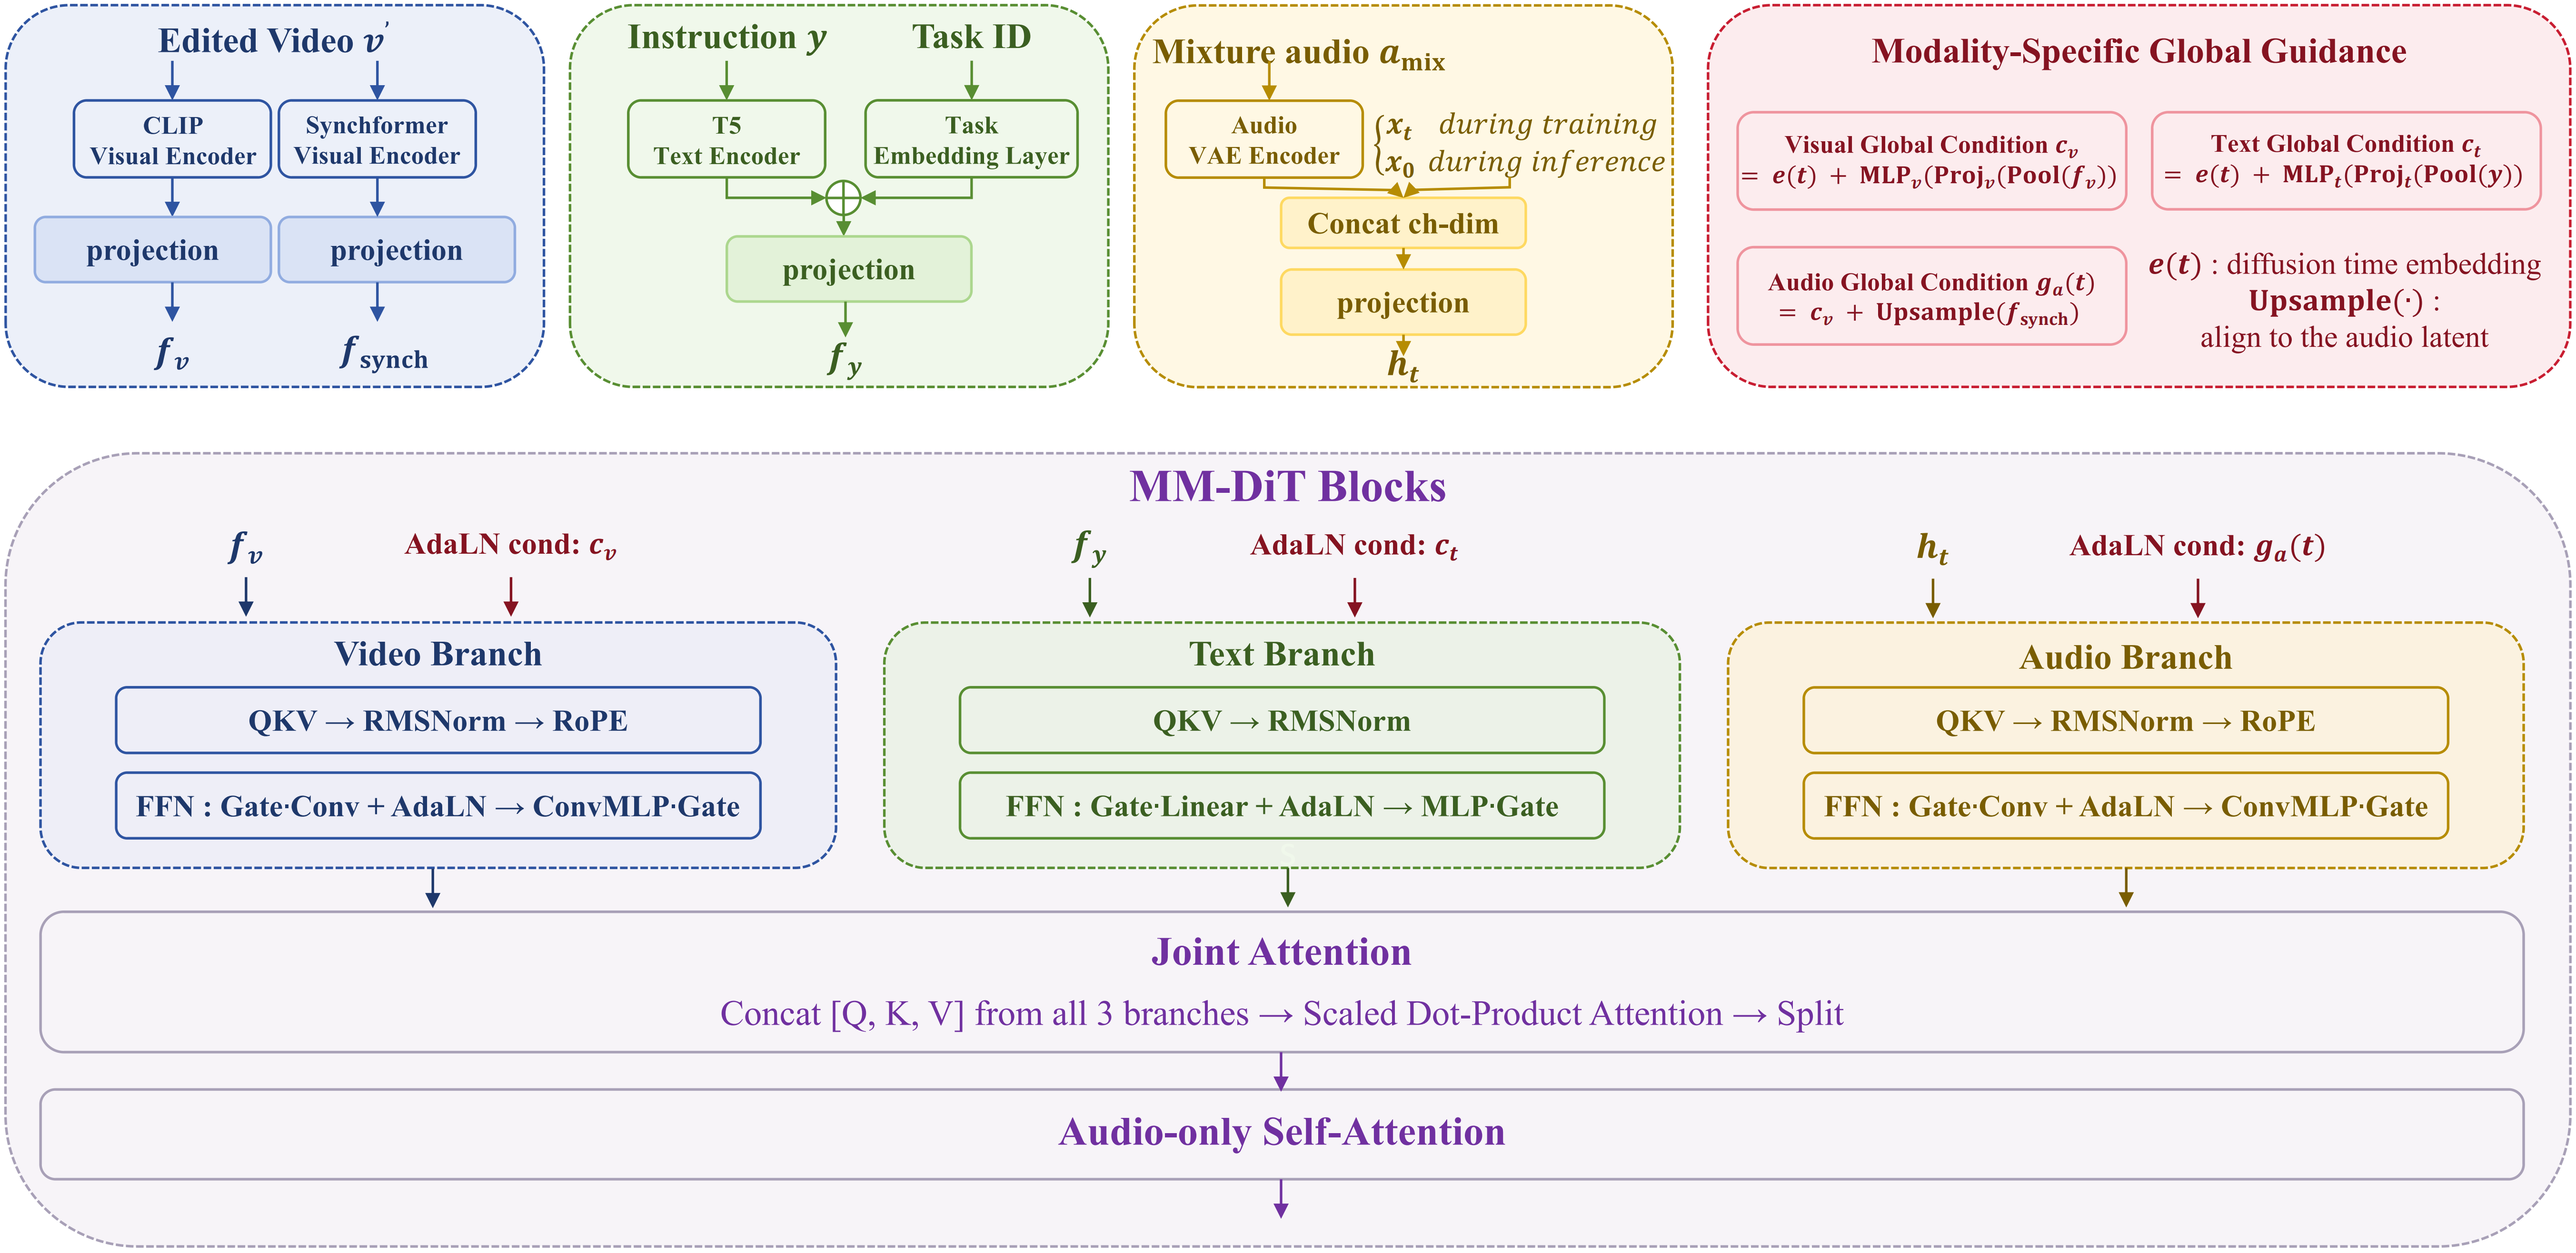
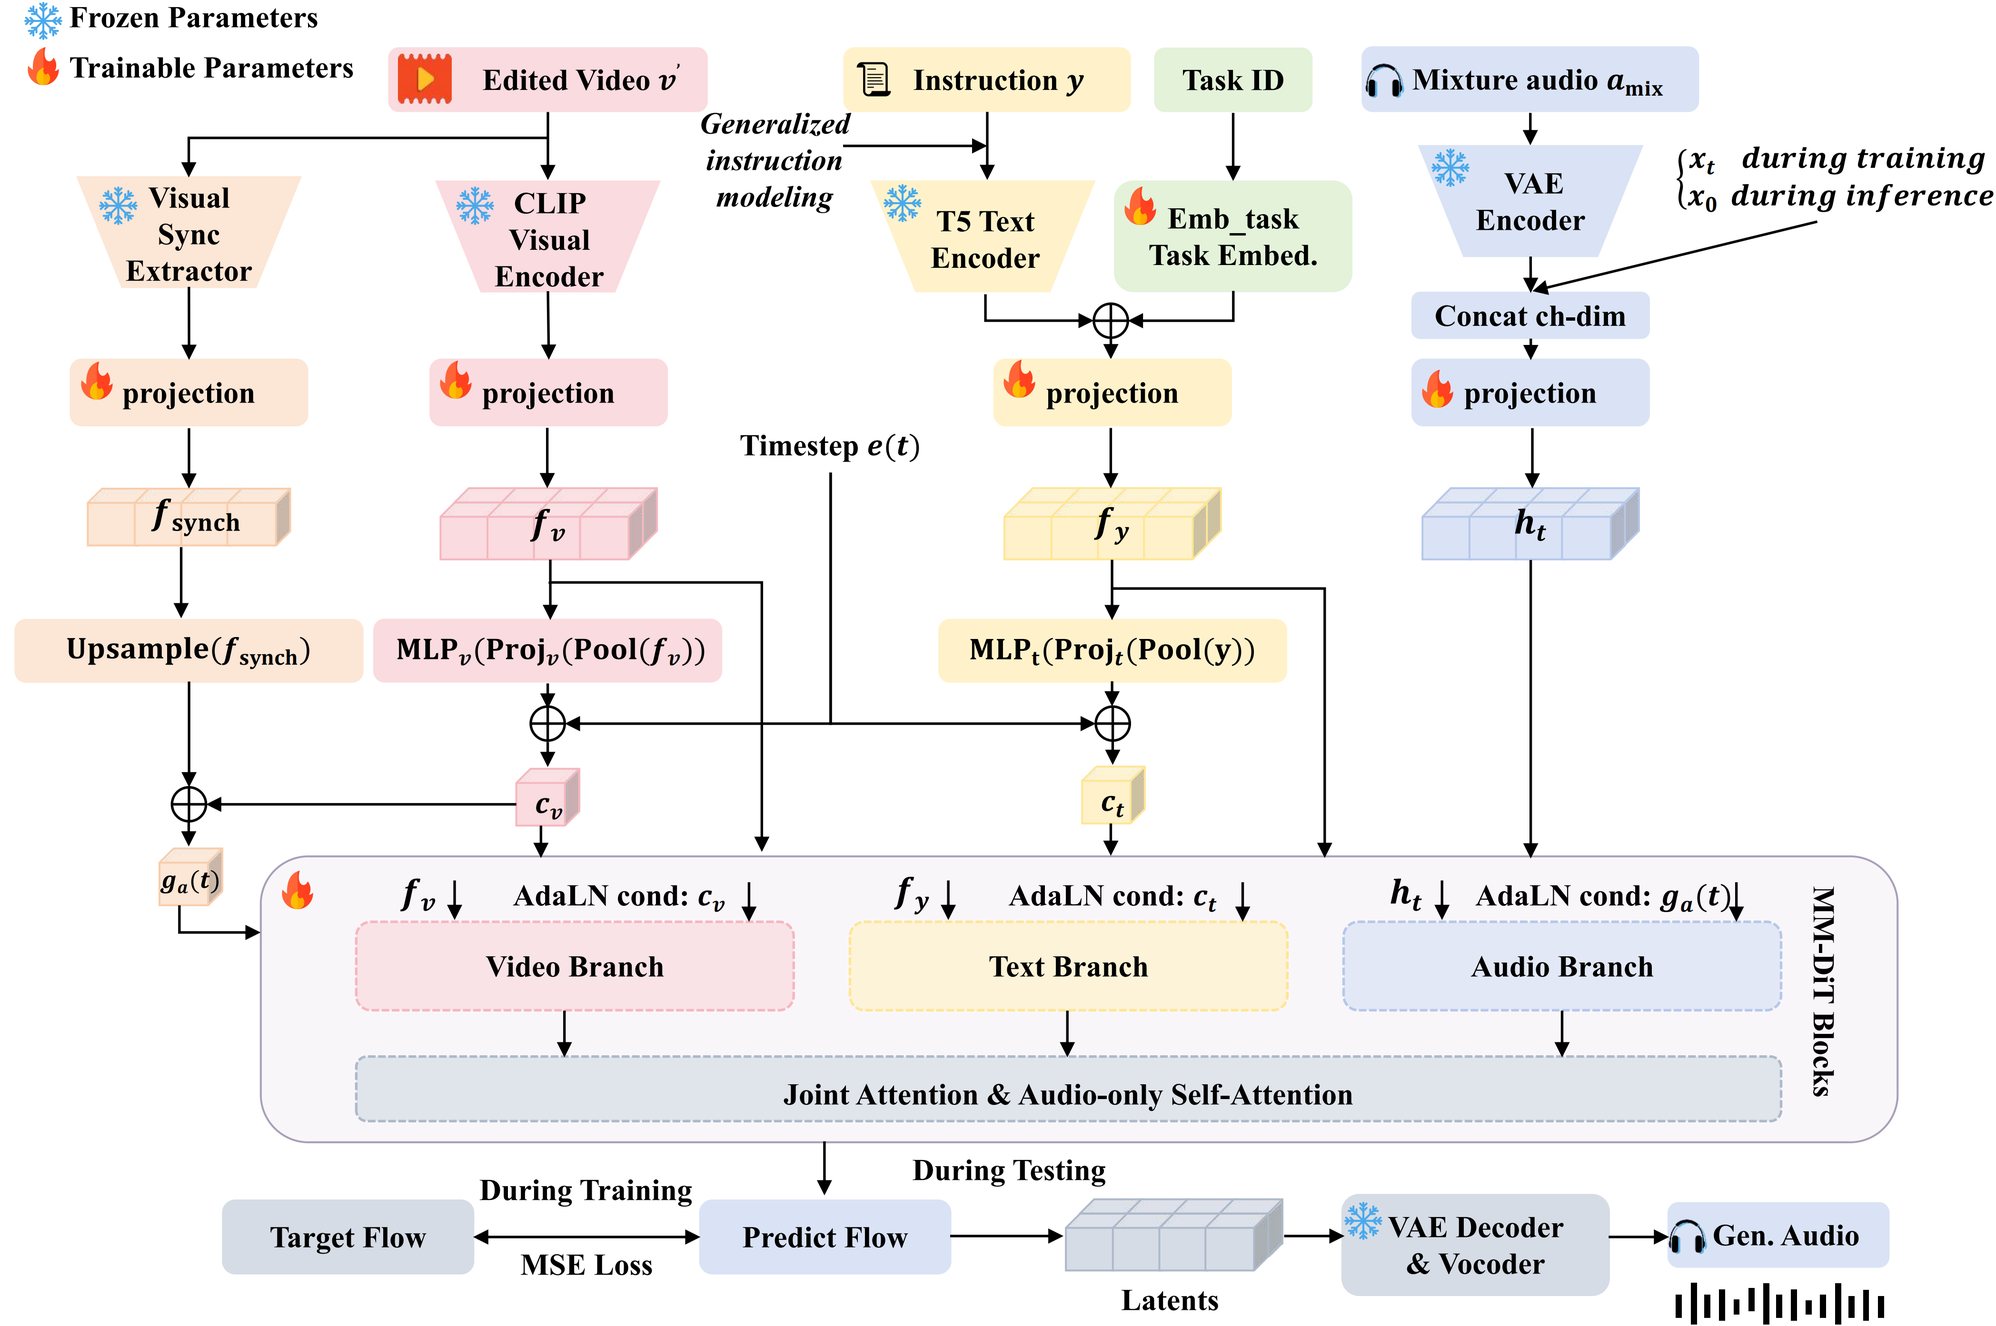
update

diff --git a/index.html b/index.html
@@ -704,11 +704,11 @@
                 <span style="position:absolute; bottom:0; left:50%; transform:translateX(-50%); width:100px; height:3px; background:linear-gradient(90deg,#b8a090,#c8b0a0); border-radius:2px; display:block;"></span>
             </h2>
             <div class="text-box">
-                <p>Visual object removal can eliminate a target from video frames, yet its acoustic trace persists in the soundtrack, causing obvious audio-visual inconsistency. Existing video inpainting models operate solely on pixels, while audio editing models, especially for the sound removal task, are typically driven by text and therefore rely on limited single-modal control, which is less effective than multimodal guidance that provides stronger semantic grounding and temporal synchronization cues. 
-                   We present Text‑Visual Guided Sound Removal (TV-AudioRemover), a target sound removal framework that leverages the visually edited video together with a natural-language instruction to suppress the sound associated with the removed visual object from the original audio mixture. 
-                   (1) To acquire high-quality training data, we devise a pipeline to construct a million-scale dataset of single-object audio-visual aligned samples, from which we synthesize mixture-target pairs customized for model training. 
-                   (2) To effectively leverage visual context and follow instruction intent, we augment the model architecture with task tokens, generalizable instruction modeling, and modality-specific global guidance.
-                   (3) We further adopt multi-task training to strengthen task-role comprehension, and employ a hard-mixture curriculum that leverages semantically similar acoustic mixtures during fine-tuning to enhance fine-grained source discrimination.
+                <p>Visual object removal can eliminate a target from video frames, yet the target’s acoustic trace persists in the soundtrack, causing noticeable audio-visual inconsistency. Existing video inpainting models operate solely on pixels, while audio editing models, especially for the sound removal task, are typically text-driven and suffer from limited unimodal control, which is less effective than multimodal guidance that provides richer semantic grounding and temporal synchronization cues. 
+                   We present Text-Visual Guided Sound Removal (\textbf{TV-AudioRemover}), a target sound removal framework that leverages natural-language instructions and optional visually edited videos to suppress the sound of the removed visual object from the original audio mixture. 
+                   (1) To obtain high-quality training data, we design a pipeline to build a million-scale dataset of single-object audio-visual aligned samples, from which we synthesize mixture-target pairs tailored for model training. 
+                   (2) To effectively exploit visual context and faithfully follow instruction intent, we augment the model architecture with task tokens, generalizable instruction modeling, and modality-specific global guidance. 
+                   (3) We further adopt multi-task training to strengthen task-role understanding, together with a hard-mixture curriculum that employs semantically similar acoustic mixtures during fine-tuning to enhance fine-grained source discrimination.
                    Beyond visually edited videos, the same selective sound-removal capability can support off-screen voice-over or narration cleanup, text-guided audio-only editing, and soundtrack-only removal of an in-frame sound from an otherwise unedited video.
                 </p>
             </div>
@@ -732,14 +732,14 @@
                 <p>We propose TV-AudioRemover, a text‑visual guided sound removal model.
                 The key contributions of TV-AudioRemover are as follows.</p>
                 <p style="padding-left:1.5em;">&#8226; <strong>A high-quality data construction pipeline.</strong></p>
-                <p style="padding-left:1.5em;">It generates million-scale single-object audio-video aligned samples and synthesizes task-specific mixture-target pairs for target removal from these samples.</p>
+                <p style="padding-left:1.5em;">It generates million-scale single-object audio-visual-aligned samples and synthesizes task-specific mixture-target pairs for training.</p>
                 <p style="padding-left:1.5em;">&#8226; <strong>A modality-decoupled audio editing architecture.</strong></p>
-                <p style="padding-left:1.5em;">With task tokens and global modal guidance, the model effectively distinguishes preservable and suppressible audio under joint visual-textual conditions.</p>
+                <p style="padding-left:1.5em;">With task tokens and global modality guidance, the model effectively distinguishes preservable and suppressible audio under joint visual-textual conditions.</p>
                 <p style="padding-left:1.5em;">&#8226; <strong>A multi-task curriculum training strategy.</strong></p>
-                <p style="padding-left:1.5em;">Combined multi-task supervision and two-stage curriculum learning enhances task understanding and fine-grained acoustic discrimination capacity.</p>
+                <p style="padding-left:1.5em;">Combined multi-task supervision and two-stage curriculum learning enhance task understanding and fine-grained acoustic discrimination.</p>
                 <p style="padding-left:1.5em;">&#8226; <strong>AV-Remove-Bench.</strong></p>
-                <p style="padding-left:1.5em;">The first audio-visual target removal benchmark with comprehensive scene diversity and broad acoustic coverage, equipped with two removal-specific metrics introduced in this work—Target Source Suppression Ratio (TSSR) and Preserved Source Fidelity (PSF)—and an MLLM-based evaluation protocol.</p>
-                <p>Extensive experiments demonstrate that TV-AudioRemover achieves state-of-the-art performance on both subjective and objective metrics. </p>
+                <p style="padding-left:1.5em;">An audio-visual target removal benchmark with rich scene diversity and broad acoustic coverage, equipped with two removal-specific metrics introduced in this work—Target Source Suppression Ratio (TSSR) and Preserved Source Fidelity (PSF)—and an MLLM-based evaluation protocol.</p>
+                <p>Experiments demonstrate that our method achieves state-of-the-art performance on both subjective and objective metrics for text-only-guided and text-visual-guided audio removal tasks. </p>
             </div>
             <div class="image-gallery">
                 <div class="image-box">
@@ -1945,20 +1945,25 @@
             <div id="perf-tab-objective" class="perf-tab">
                 <div style="background:#ffffff; border-radius:8px; box-shadow:0 4px 12px rgba(0,0,0,0.05); border:1px solid rgba(0,0,0,0.08); padding:20px 25px;">
                     <div class="text-box" style="box-shadow:none; border:none; padding:0; margin-bottom:20px;">
-                        <p>We compare TV-AudioRemover with three categories of models on the AV-Remove-Bench: joint audio-visual editing models (AVI-Edit, InstructAV2AV); text-guided audio editing models (ZETA, Audio-Omni, UNISON); and video- and text-guided audio extraction model (SAM Audio).</p>
+                        <p>The evaluation datasets consist of two parts: a removal subset of 50 samples from MMAE, an open-source text-guided audio editing benchmark, and our proposed text-visual-guided sound removal benchmark AV-Remove-Bench. 
+                           We compare TV-AudioRemover with three categories of models on the AV-Remove-Bench: joint audio-visual editing models (AVI-Edit, InstructAV2AV); text-guided audio editing models (ZETA, Audio-Omni, UNISON); and video- and text-guided audio extraction model (SAM Audio, MMAudioSep).
+                           For the MMAE removal subset, we only evaluate the sound removal performance of audio-only editing models under pure text guidance.</p>
                     </div>
                     <div style="text-align:center;">
-                        <img src="Figs/objective.png" alt="objective" style="border:none; outline:none; box-shadow:none; padding:0; max-width:90%; height:auto;">
+                        <img src="Figs/objective1.png" alt="objective1" style="border:none; outline:none; box-shadow:none; padding:0; max-width:90%; height:auto;">
+                    </div>
+                    <div style="text-align:center;">
+                        <img src="Figs/objective2.png" alt="objective2" style="border:none; outline:none; box-shadow:none; padding:0; max-width:90%; height:auto;">
                     </div>
                     <div class="text-box" style="box-shadow:none; border:none; padding:0; margin-bottom:20px;">
-                        <p>TV-AudioRemover achieves state-of-the-art performance across almost all objective metrics.</p>
+                        <p>TV-AudioRemover achieves state-of-the-art performance for text-only-guided and text-visual-guided audio removal tasks.</p>
                     </div>
                 </div>
             </div>
             <div id="perf-tab-subjective" class="perf-tab" style="display:none;">
                     <div style="background:#ffffff; border-radius:8px; box-shadow:0 4px 12px rgba(0,0,0,0.05); border:1px solid rgba(0,0,0,0.08); padding:20px 25px;">
                     <div class="text-box" style="box-shadow:none; border:none; padding:0; margin-bottom:20px;">
-                        <p>We further conduct a human listening evaluation on the AV-Remove-Bench to compare against the baseline models.</p>
+                        <p>We further conduct a human listening evaluation on AV-Remove-Bench to compare our method with the baseline models.</p>
                     </div>
                     <div style="text-align:center;">
                         <img src="Figs/subjective.png" alt="subjective" style="border:none; outline:none; box-shadow:none; padding:0; max-width:70%; height:auto;">
@@ -2132,7 +2137,10 @@
             <div style="background:#ffffff; border-radius:8px; box-shadow:0 4px 12px rgba(0,0,0,0.05); border:1px solid rgba(0,0,0,0.08); padding:20px 25px;">
                 <div class="text-box" style="box-shadow:none; border:none; padding:0; margin-bottom:20px;">
                     <p>We propose AV-Remove-Bench, a comprehensive audio-visual object removal benchmark with 77 samples. All samples are audio-visual clips of about six seconds, covering speech, music, and sound effects.
-                       Each sample falls into either a multi-sounding-object setting or a foreground-target-plus-stable-background setting, and the goal is to remove a specified sounding object from both the visual and audio streams.</p>
+                       Each sample falls into either a multi-sounding-object setting or a foreground-target-plus-stable-background setting, and the goal is to remove a specified sounding object from both the visual and audio streams. The data distribution is visualized below.</p>
+                </div>
+                <div style="text-align:center;">
+                        <img src="Figs/fig3.png" alt="av-remove-bench" style="border:none; outline:none; box-shadow:none; padding:0; max-width:70%; height:auto;">
                 </div>
             </div>
         </section>
